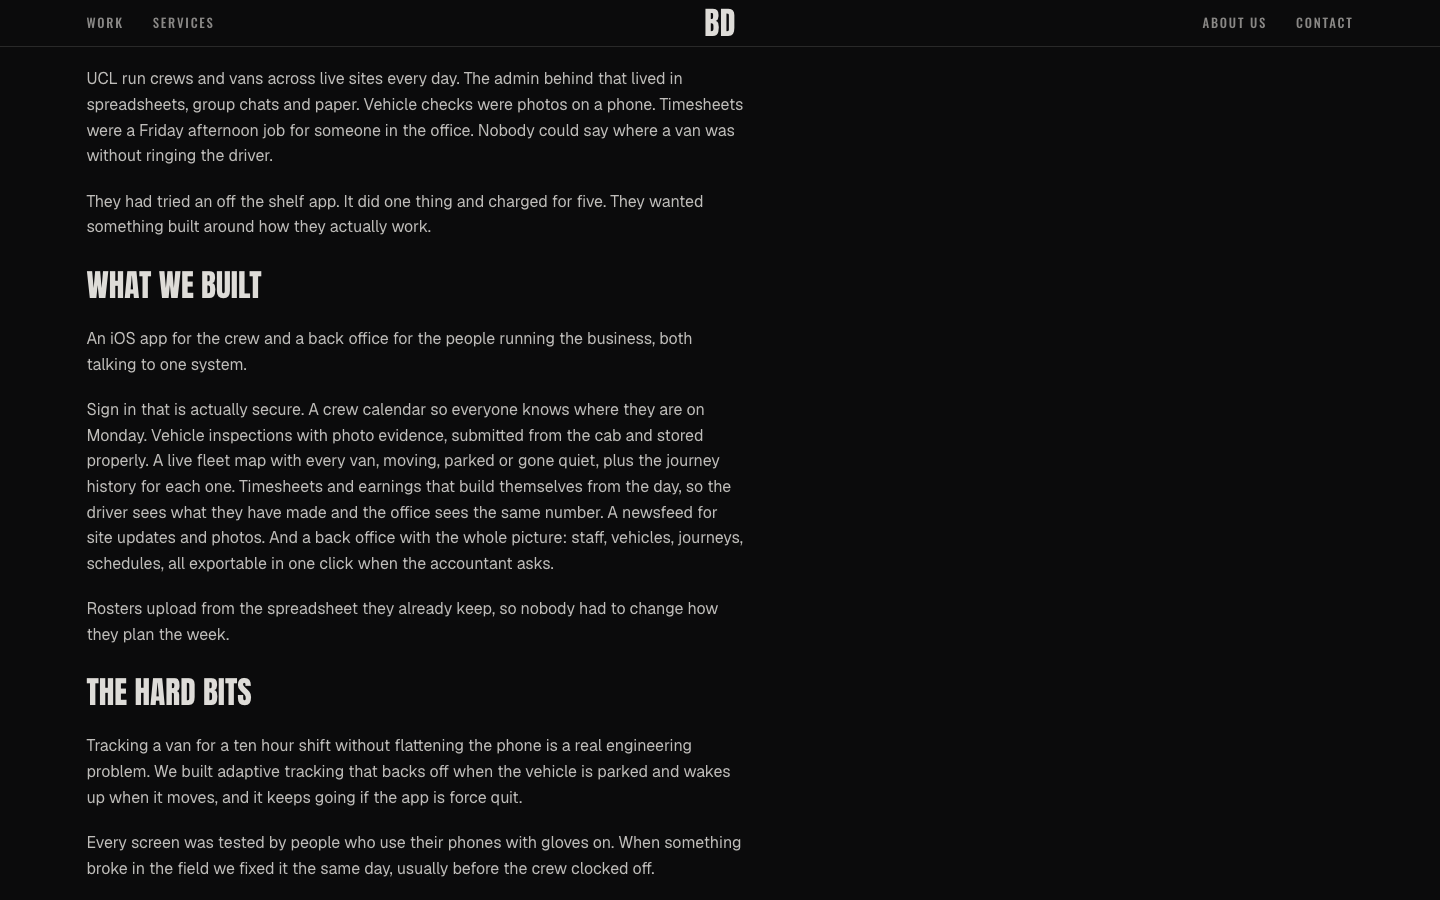
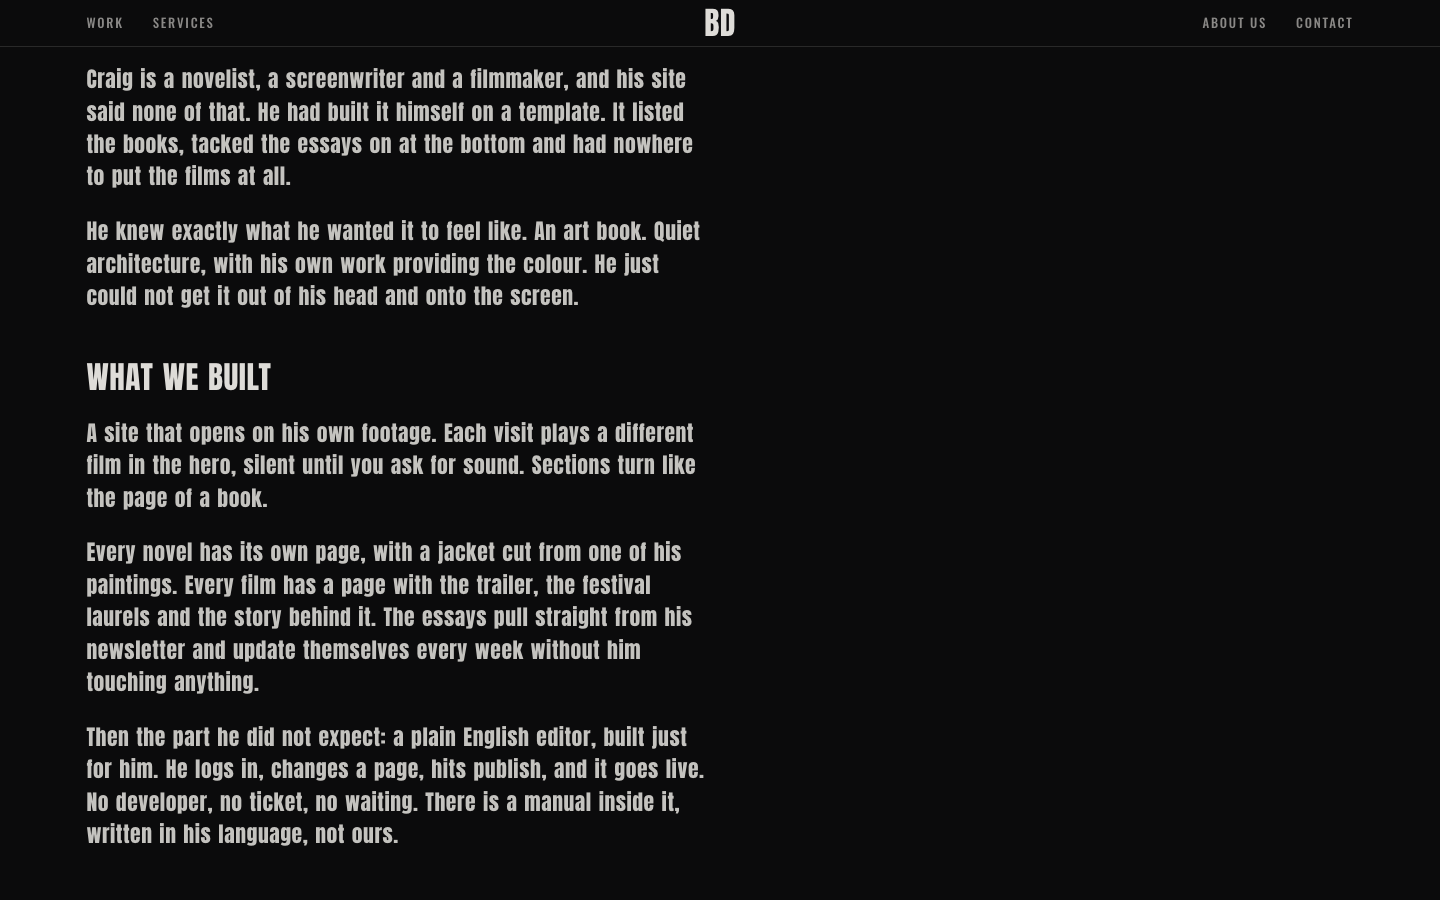
Hero copy set in Anton, smaller than the wordmark, matching the titles
Claude-Session: https://claude.ai/code/session_01NAdPXLUXCGhh82qBsMYyAh

Changed region(s): [[0.0625, 0.3733, 0.5, 0.9956], [0.0625, 0.0622, 0.5312, 0.3422]]

diff --git a/src/app/globals.css b/src/app/globals.css
@@ -276,12 +276,13 @@ body {
 
 /* scroll lines: Oswald caps, one sentence per line, placed by beat */
 .copy--line {
-  font-family: var(--font-copy);
-  font-weight: 500;
+  font-family: var(--font-wordmark);
+  font-weight: 400;
   text-transform: uppercase;
-  letter-spacing: 0.03em;
-  font-size: clamp(var(--step-2), 2.4vw, var(--step-4));
-  line-height: 1.12;
+  letter-spacing: 0.035em;
+  word-spacing: 0.08em;
+  font-size: clamp(var(--step-2), 2.3vw, var(--step-4));
+  line-height: 1.1;
   color: var(--ink);
   white-space: normal;
   width: min(46vw, 34ch);
